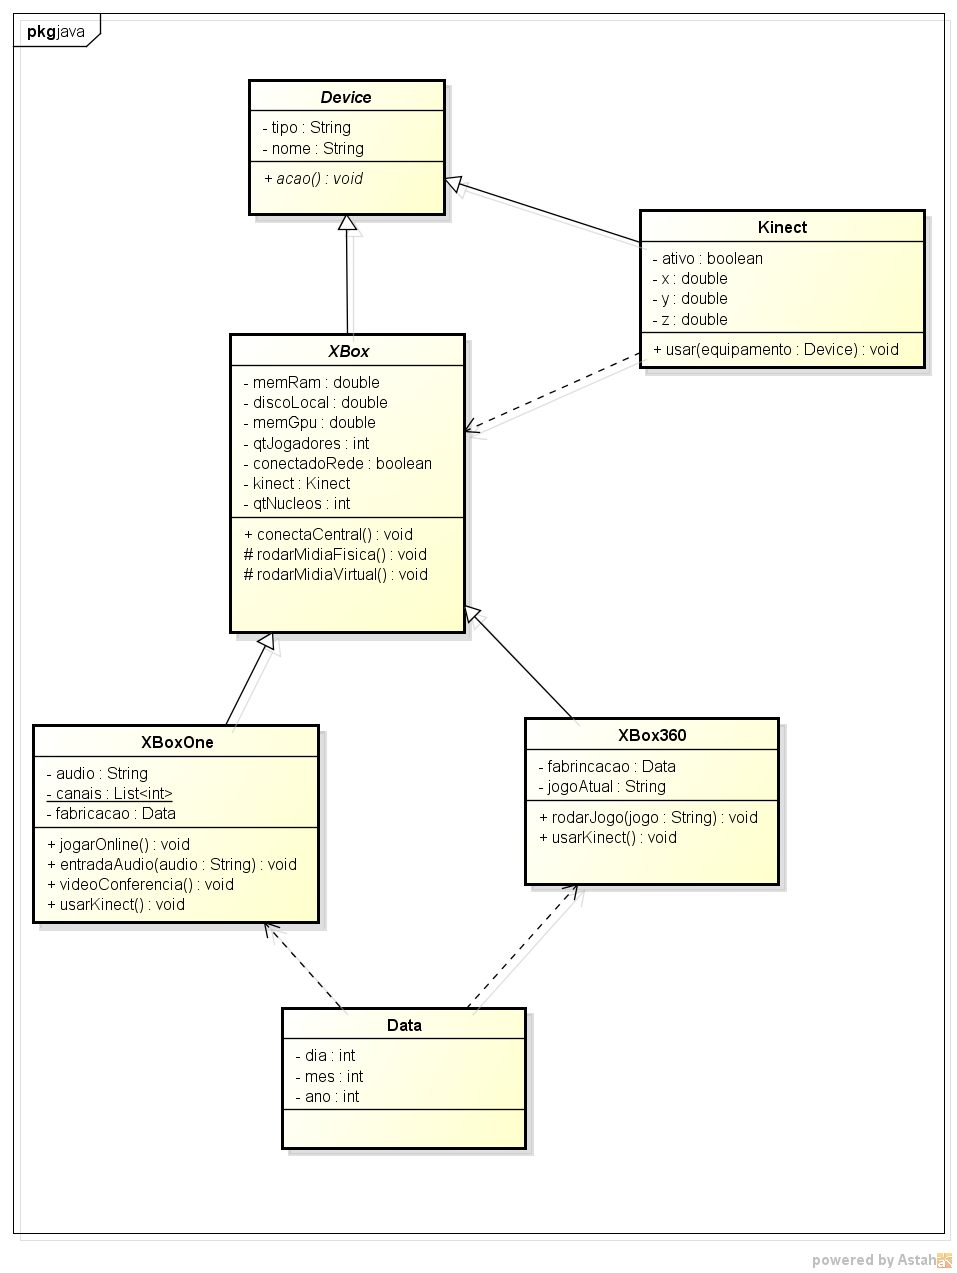
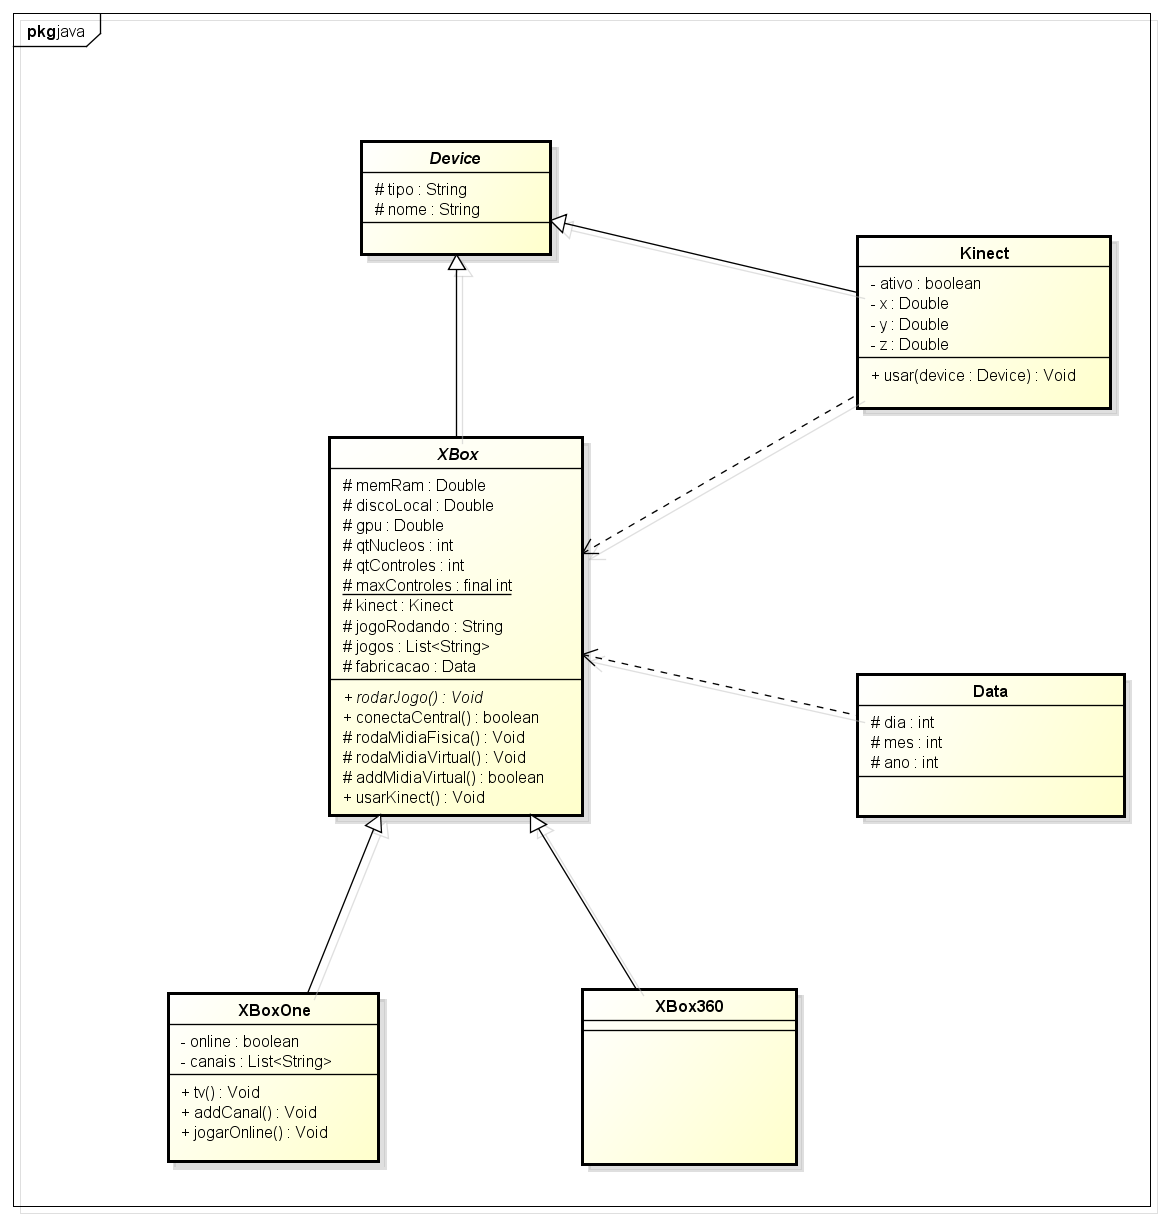
Atualizacao de codigo e diagramas

Changed region(s): [[0.0, 0.0, 1.0, 0.9967], [0.4848, 0.7164, 0.5152, 0.7475]]

diff --git a/XBox/src/br/ufpa/progamacaoii/xbox/XBoxOne.java b/XBox/src/br/ufpa/progamacaoii/xbox/XBoxOne.java
@@ -1,5 +1,6 @@
 package br.ufpa.progamacaoii.xbox;
 
+import br.ufpa.progamacaoii.xbox.data.Data;
 import java.util.ArrayList;
 import java.util.List;
 import java.util.logging.Level;
@@ -21,7 +22,7 @@ public class XBoxOne extends XBox{
      * indica se o usuario esta online
      */
     private boolean online;
-            
+
     public XBoxOne(){
         super();//construtor da classe pai
         //valores default        
@@ -30,6 +31,11 @@ public class XBoxOne extends XBox{
     
     public XBoxOne(XBoxOne xbox){
         super( /*(XBox)*/ xbox);//um XBox One eh um XBox (cast nao eh obrigatorio, mas se quiser usar tbm funciona :) )
+        this.canais = xbox.canais;        
+    }
+    
+    public XBoxOne(Data data,XBoxOne xbox){
+        super(data, /*(XBox)*/ xbox);//um XBox One eh um XBox (cast nao eh obrigatorio, mas se quiser usar tbm funciona :) )
         this.canais = xbox.canais;        
     }
         
@@ -46,7 +52,7 @@ public class XBoxOne extends XBox{
                 if (JOptionPane.showConfirmDialog(null, "\nUsar kinect?\n","Iniciando...",JOptionPane.YES_NO_OPTION) == 0 ){
                     if(kinect == null)
                         kinect = new Kinect();
-                    kinect.usar(this);
+                    usarKinect();
                 }
                 
                 rodaMidiaFisica();
@@ -64,7 +70,7 @@ public class XBoxOne extends XBox{
          * verificacao de seguranca.
          * se nao houver nenhuma canal na memoria secundaria.
          */
-        if(canais.size() == 0)
+        if(canais.isEmpty())
             if(JOptionPane.showConfirmDialog(null, "\nSem canais registrados.\n\nAdicionar?","TV",JOptionPane.YES_NO_OPTION) == 0 )
                 if(!addCanal())
                     return;
@@ -109,6 +115,90 @@ public class XBoxOne extends XBox{
         } catch (InterruptedException ex) {
             Logger.getLogger(XBoxOne.class.getName()).log(Level.SEVERE, null, ex);
         }
+    }
+
+    public double getMemRam() {
+        return memRam;
+    }
+
+    public void setMemRam(double memRam) {
+        this.memRam = memRam;
+    }
+
+    public double getDiscoLocal() {
+        return discoLocal;
+    }
+
+    public void setDiscoLocal(double discoLocal) {
+        this.discoLocal = discoLocal;
+    }
+
+    public double getGpu() {
+        return gpu;
+    }
+
+    public void setGpu(double gpu) {
+        this.gpu = gpu;
+    }
+
+    public int getQtNucleos() {
+        return qtNucleos;
+    }
+
+    public void setQtNucleos(int qtNucleos) {
+        this.qtNucleos = qtNucleos;
+    }
+
+    public int getQtControles() {
+        return qtControles;
+    }
+
+    public void setQtControles(int qtControles) {
+        this.qtControles = qtControles;
+    }
+
+    public Kinect getKinect() {
+        return kinect;
+    }
+
+    public void setKinect(Kinect kinect) {
+        this.kinect = kinect;
+    }
+
+    public String getJogoRodando() {
+        return jogoRodando;
+    }
+
+    public void setJogoRodando(String jogoRodando) {
+        this.jogoRodando = jogoRodando;
+    }
+
+    public List<String> getJogos() {
+        return jogos;
+    }
+
+    public void setJogos(List<String> jogos) {
+        this.jogos = jogos;
+    }
+
+    public Data getFabricacao() {
+        return fabricacao;
+    }
+
+    public List<String> getCanais() {
+        return canais;
+    }
+
+    public void setCanais(List<String> canais) {
+        this.canais = canais;
+    }
+
+    public boolean isOnline() {
+        return online;
+    }
+
+    public void setOnline(boolean online) {
+        this.online = online;
     }
     
 }

diff --git a/XBox/src/br/ufpa/progamacaoii/xbox/XBox.java b/XBox/src/br/ufpa/progamacaoii/xbox/XBox.java
@@ -35,7 +35,7 @@ public abstract class XBox extends Device {
     /*
      * quantidade de nucleos na cpu
      */
-    protected double qtNucleos;
+    protected int qtNucleos;
     
     /*
      * quantidade de controles atualmente conectados
@@ -101,8 +101,24 @@ public abstract class XBox extends Device {
         this.tipo = xbox.tipo;
         this.fabricacao = xbox.fabricacao;
     }
-    public XBox(Data data){        
+    /*
+     * construtor de copia com dois argumentos
+     */
+    public XBox(Data data,XBox xbox){
+        
         this.fabricacao = new Data(1,1,2013);
+        this.discoLocal = xbox.discoLocal;
+        this.gpu = xbox.gpu;
+        this.jogoRodando = xbox.jogoRodando;
+        this.jogos = xbox.jogos;
+        this.kinect = xbox.kinect;
+        this.memRam = xbox.memRam;
+        this.nome = xbox.nome;
+        this.qtControles = xbox.qtControles;
+        this.qtNucleos = xbox.qtNucleos;
+        this.tipo = xbox.tipo;
+        this.fabricacao = xbox.fabricacao;
+        
     }
     /*
      * cada XBox vai rodar os seus jogos de modo diferente
@@ -121,6 +137,7 @@ public abstract class XBox extends Device {
         dialog.setModal(true);
         //timer. Insere um tempo de vida para o JOptionPane
         Timer timer = new Timer(10 * 500, new ActionListener() {            
+            @Override
             public void actionPerformed(ActionEvent ev) {  
                 dialog.dispose();
             }            
@@ -145,6 +162,7 @@ public abstract class XBox extends Device {
             dialogAux.setModal(true);
             //timer. Insere um tempo de vida para o JOptionPane
             timer = new Timer(10 * 500, new ActionListener() {            
+                @Override
                 public void actionPerformed(ActionEvent ev) {  
                     dialogAux.dispose();
                 }            
@@ -179,6 +197,7 @@ public abstract class XBox extends Device {
         dialog.setModal(true);
         //timer. Insere um tempo de vida para o JOptionPane
         Timer timer = new Timer(10 * 700, new ActionListener() {            
+            @Override
             public void actionPerformed(ActionEvent ev) {  
                 dialog.dispose();
             }            
@@ -198,7 +217,7 @@ public abstract class XBox extends Device {
          * verificacao de seguranca.
          * se nao houver nenhuma midia na memoria secundaria.
          */
-        if(jogos.size() == 0)
+        if(jogos.isEmpty())
             if(JOptionPane.showConfirmDialog(null, "\nSem midias virtuais no disco local.\n\nAdicionar?","Midias Virtuais",JOptionPane.YES_NO_OPTION) == 0 )
                 if(!addMidiaVirtual())
                     return;        
@@ -243,6 +262,7 @@ public abstract class XBox extends Device {
             dialog.setModal(true);
             //timer. Insere um tempo de vida para o JOptionPane
             Timer timer = new Timer(10 * 100, new ActionListener() {
+                @Override
                 public void actionPerformed(ActionEvent ev) {  
                     dialog.dispose();
                 }            
@@ -274,6 +294,7 @@ public abstract class XBox extends Device {
             dialog.setModal(true);
             //timer. Insere um tempo de vida para o JOptionPane
             Timer timer = new Timer(10 * 100, new ActionListener() {
+                @Override
                 public void actionPerformed(ActionEvent ev) {  
                     dialog.dispose();
                 }            

diff --git a/XBox/src/br/ufpa/progamacaoii/xbox/XBox360.java b/XBox/src/br/ufpa/progamacaoii/xbox/XBox360.java
@@ -1,6 +1,8 @@
 package br.ufpa.progamacaoii.xbox;
 
 import static br.ufpa.progamacaoii.xbox.XBox.maxControles;
+import br.ufpa.progamacaoii.xbox.data.Data;
+import java.util.List;
 import javax.swing.JOptionPane;
 
 /**
@@ -22,6 +24,10 @@ public class XBox360 extends XBox{
         super( (XBox) xbox );//usando cast
     }
     
+    public XBox360(Data data,XBox360 xbox){
+        super( data,(XBox) xbox );//usando cast
+    }
+
     @Override
     public void rodarJogo(){
         
@@ -35,7 +41,7 @@ public class XBox360 extends XBox{
                 if (JOptionPane.showConfirmDialog(null, "\nUsar kinect?\n","Iniciando...",JOptionPane.YES_NO_OPTION) == 0 ){
                     if(kinect == null)
                         kinect = new Kinect();
-                    kinect.usar(this);
+                    usarKinect();
                 }
                 
                 rodaMidiaFisica();
@@ -47,6 +53,72 @@ public class XBox360 extends XBox{
             rodaMidiaVirtual();
     }
     
-    
-    
+    public double getMemRam() {
+        return memRam;
+    }
+
+    public void setMemRam(double memRam) {
+        this.memRam = memRam;
+    }
+
+    public double getDiscoLocal() {
+        return discoLocal;
+    }
+
+    public void setDiscoLocal(double discoLocal) {
+        this.discoLocal = discoLocal;
+    }
+
+    public double getGpu() {
+        return gpu;
+    }
+
+    public void setGpu(double gpu) {
+        this.gpu = gpu;
+    }
+
+    public int getQtNucleos() {
+        return qtNucleos;
+    }
+
+    public void setQtNucleos(int qtNucleos) {
+        this.qtNucleos = qtNucleos;
+    }
+
+    public int getQtControles() {
+        return qtControles;
+    }
+
+    public void setQtControles(int qtControles) {
+        this.qtControles = qtControles;
+    }
+
+    public Kinect getKinect() {
+        return kinect;
+    }
+
+    public void setKinect(Kinect kinect) {
+        this.kinect = kinect;
+    }
+
+    public String getJogoRodando() {
+        return jogoRodando;
+    }
+
+    public void setJogoRodando(String jogoRodando) {
+        this.jogoRodando = jogoRodando;
+    }
+
+    public List<String> getJogos() {
+        return jogos;
+    }
+
+    public void setJogos(List<String> jogos) {
+        this.jogos = jogos;
+    }
+
+    public Data getFabricacao() {
+        return fabricacao;
+    }
+
 }

diff --git a/XBox/src/br/ufpa/progamacaoii/xbox/Kinect.java b/XBox/src/br/ufpa/progamacaoii/xbox/Kinect.java
@@ -7,7 +7,7 @@ import javax.swing.JOptionPane;
  *
  * @author Moisés Felipe
  */
-public class Kinect {
+public class Kinect extends Device{
     
     /*
      * indica se o kinect esta ativo
@@ -28,6 +28,8 @@ public class Kinect {
         x = null;
         y = null;
         z = null;
+        tipo = "eletronico";
+        nome = "kinect";
     }
     /*
      * construtor de copia
@@ -37,6 +39,8 @@ public class Kinect {
         x = kinect.x;
         y = kinect.y;
         z = kinect.z;
+        tipo = kinect.tipo;
+        nome = kinect.nome;
     }
     /*
      * modo de utilizar o kinect através do equipamento
